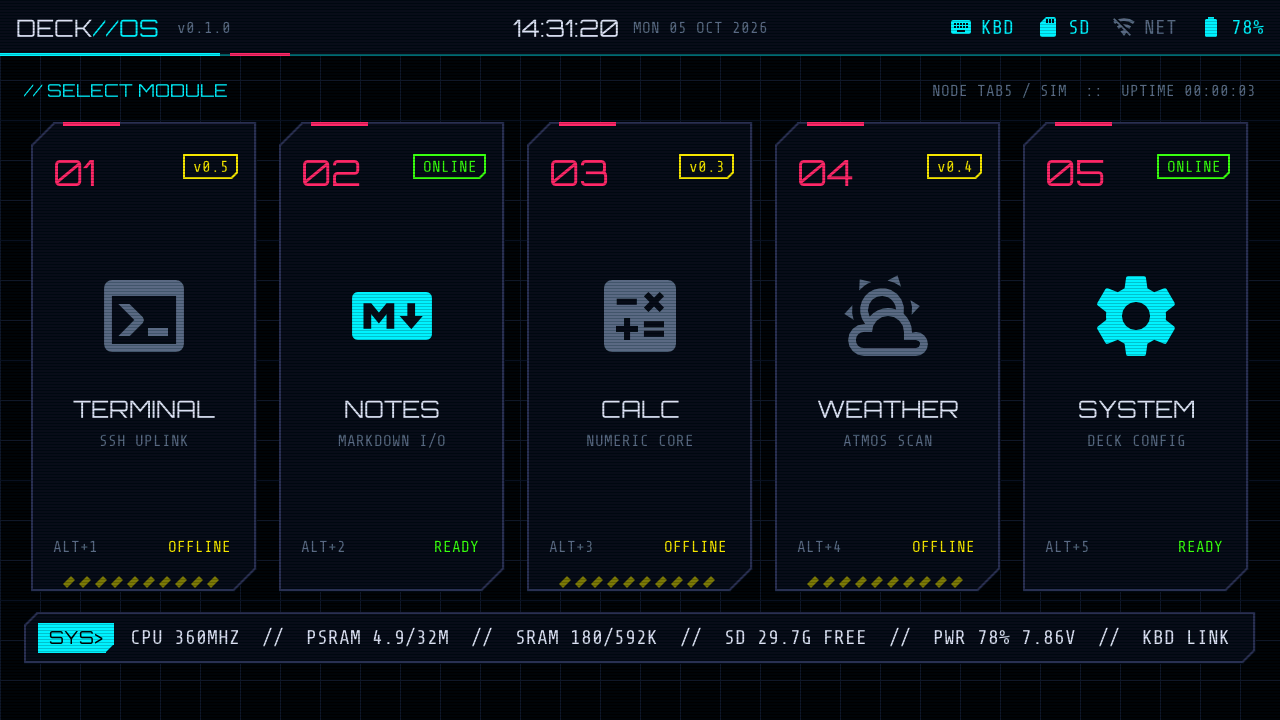
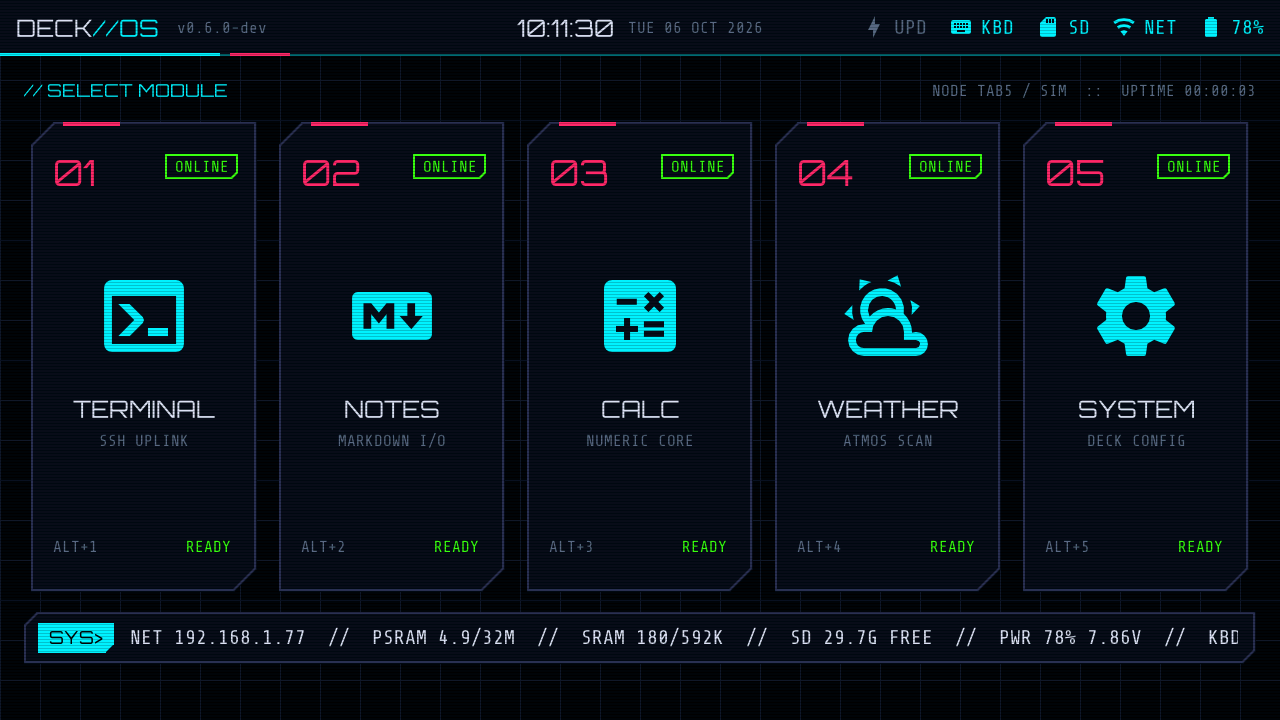
Web flasher on GitHub Pages
- web/index.html: installer page in the deck's style using ESP Web Tools
  10.4.0 (ESP32-P4), served from the site rather than a CDN
- .github/workflows/pages.yml: on every published release, bundles that
  release's full image, writes the ESP Web Tools manifest and deploys
- README: install-from-browser and release instructions; fresh home
  screenshot

diff --git a/web/index.html b/web/index.html
@@ -1,0 +1,122 @@
+<!doctype html>
+<html lang="en">
+<head>
+<meta charset="utf-8">
+<meta name="viewport" content="width=device-width, initial-scale=1">
+<title>DECK//OS Installer</title>
+<meta name="description" content="Install DECK//OS on an M5Stack Tab5 from your browser.">
+<link rel="preconnect" href="https://fonts.googleapis.com">
+<link rel="preconnect" href="https://fonts.gstatic.com" crossorigin>
+<link href="https://fonts.googleapis.com/css2?family=Orbitron:wght@500;700&family=Share+Tech+Mono&display=swap" rel="stylesheet">
+<!-- ESP Web Tools 10.4.0, copied from npm into the site by the deploy workflow (no CDN at runtime). -->
+<script type="module" src="ewt/install-button.js"></script>
+<style>
+:root {
+  --bg: #07070d; --panel: #0d0f1c; --panel-hi: #171a30; --line: #2a3050;
+  --text: #d8e1f0; --dim: #7a84a3; --accent: #00f0ff; --accent2: #ff2a6d;
+  --warn: #f3e600; --ok: #39ff14;
+  --mono: "Share Tech Mono", "SF Mono", Menlo, Consolas, monospace;
+  --disp: "Orbitron", var(--mono);
+}
+* { box-sizing: border-box; }
+html, body { margin: 0; }
+body {
+  background-color: var(--bg);
+  background-image: linear-gradient(#16182a 1px, transparent 1px), linear-gradient(90deg, #16182a 1px, transparent 1px);
+  background-size: 40px 40px;
+  color: var(--text);
+  font: 17px/1.6 var(--mono);
+}
+.wrap { max-width: 980px; margin: 0 auto; padding: 32px 16px 64px; }
+header { display: flex; align-items: baseline; gap: 16px; flex-wrap: wrap;
+         border-bottom: 2px solid color-mix(in srgb, var(--accent) 45%, transparent); padding-bottom: 14px; }
+.brand { font: 700 40px/1 var(--disp); letter-spacing: 2px; }
+.brand b { color: var(--accent); font-weight: 700; }
+.sub { color: var(--dim); }
+.grow { flex: 1; }
+.ver { color: var(--accent2); }
+.panel {
+  background: var(--panel); position: relative; padding: 24px; margin-top: 24px;
+  clip-path: polygon(16px 0, 100% 0, 100% calc(100% - 16px), calc(100% - 16px) 100%, 0 100%, 0 16px);
+  box-shadow: inset 0 0 0 1px var(--line);
+}
+.panel::before { content: ""; position: absolute; left: 26px; top: 0; width: 64px; height: 3px; background: var(--accent2); }
+h2 { font: 500 18px/1.2 var(--disp); color: var(--accent); letter-spacing: 1px; margin: 0 0 14px; }
+h2::before { content: "// "; }
+.hero { width: 100%; height: auto; display: block; margin-top: 24px; border: 1px solid var(--line); }
+.install { display: flex; align-items: center; gap: 24px; flex-wrap: wrap; }
+esp-web-install-button button[slot="activate"] {
+  font: 700 20px/1 var(--disp); letter-spacing: 2px; color: var(--bg); background: var(--accent);
+  border: 0; padding: 18px 34px; cursor: pointer;
+  clip-path: polygon(12px 0, 100% 0, 100% calc(100% - 12px), calc(100% - 12px) 100%, 0 100%, 0 12px);
+}
+esp-web-install-button button[slot="activate"]:hover { background: #6bf7ff; }
+.unsupported, .not-allowed { color: var(--warn); }
+ol { margin: 0; padding-left: 22px; }
+li { margin: 6px 0; }
+.note { color: var(--dim); font-size: 15px; }
+.warn { color: var(--warn); }
+a { color: var(--accent); }
+code { color: var(--ok); }
+.grid { display: grid; grid-template-columns: repeat(auto-fit, minmax(260px, 1fr)); gap: 0 24px; }
+footer { margin-top: 32px; color: var(--dim); font-size: 14px; }
+</style>
+</head>
+<body>
+<div class="wrap">
+  <header>
+    <div class="brand">DECK<b>//OS</b></div>
+    <div class="sub">CYBERDECK FIRMWARE FOR THE M5STACK TAB5</div>
+    <div class="grow"></div>
+    <div class="ver" id="ver"></div>
+  </header>
+
+  <img class="hero" src="screenshots/home.png" alt="DECK//OS home screen" width="1280" height="720">
+
+  <div class="panel">
+    <h2>INSTALL</h2>
+    <div class="install">
+      <esp-web-install-button manifest="manifest.json">
+        <button slot="activate">INSTALL</button>
+        <span slot="unsupported" class="unsupported">This browser can't talk to USB devices. Use Chrome or Edge on a desktop computer.</span>
+        <span slot="not-allowed" class="not-allowed">Open this page over HTTPS to install.</span>
+      </esp-web-install-button>
+      <div class="note">Chrome or Edge on a desktop computer. Takes about a minute.</div>
+    </div>
+  </div>
+
+  <div class="grid">
+    <div class="panel">
+      <h2>STEPS</h2>
+      <ol>
+        <li>Connect the Tab5 to this computer with a USB-C <b>data</b> cable.</li>
+        <li>Click <b>INSTALL</b> and pick the Tab5's port (it shows up as a USB JTAG/serial device).</li>
+        <li>Confirm, and wait for the progress to finish.</li>
+        <li>The Tab5 restarts into DECK//OS.</li>
+      </ol>
+      <p class="note">If no port appears, hold the Tab5's boot button while plugging it in, then try again.</p>
+    </div>
+    <div class="panel">
+      <h2>GOOD TO KNOW</h2>
+      <ul>
+        <li class="warn">Installing here resets settings (Wi-Fi, theme, timezone). Notes and files on the SD card are not touched.</li>
+        <li>After this, updates arrive over Wi-Fi: SYSTEM &gt; UPDATE.</li>
+        <li>Works on every Tab5 screen revision.</li>
+        <li>Pair it with the Tab5 Keyboard for the full deck.</li>
+      </ul>
+    </div>
+  </div>
+
+  <footer>
+    <a href="https://github.com/hey-its-brian/tab5-cyberdeck">Source on GitHub</a> ·
+    <a href="https://github.com/hey-its-brian/tab5-cyberdeck/releases">Releases and notes</a> ·
+    Installer powered by <a href="https://esphome.github.io/esp-web-tools/">ESP Web Tools</a>
+  </footer>
+</div>
+<script>
+fetch("manifest.json").then((r) => r.json()).then((m) => {
+  document.getElementById("ver").textContent = "v" + m.version;
+}).catch(() => {});
+</script>
+</body>
+</html>

diff --git a/ROADMAP.md b/ROADMAP.md
@@ -51,10 +51,11 @@ Each version ends with something flashable and usable.
 
 ## Web flasher (GitHub Pages)
 
-- A page on GitHub Pages using ESP Web Tools: plug the Tab5 in over USB, click INSTALL in Chrome or Edge (Web Serial), done. No ESP-IDF needed
-- Manifest generated by the release workflow, always pointing at the latest release's full image
-- Covers first installs and recovery; OTA handles everything after
-- Optional: GitHub Actions builds the firmware on each tag and attaches both the full and OTA images to the release
+- [x] Page on GitHub Pages using ESP Web Tools (served from the site, no CDN): plug in, INSTALL in Chrome or Edge
+- [x] Deploy workflow runs on every published release: bundles that release's full image and writes the manifest
+- [x] `tools/release.sh` cuts a release (version bump, build, both images, tag, GitHub release)
+- [ ] Checkpoint: install from the page onto the Tab5 in Chrome
+- [ ] Optional: GitHub Actions builds the firmware on each tag
 
 ## v0.6: SSH terminal (done)
 

diff --git a/README.md b/README.md
@@ -91,6 +91,18 @@ See [ROADMAP.md](ROADMAP.md) for v0.2 onward.
 
 Everything is also reachable by touch: tiles, the `< DECK` button and on-screen controls.
 
+## Install from the browser
+
+[**hey-its-brian.github.io/tab5-cyberdeck**](https://hey-its-brian.github.io/tab5-cyberdeck/): plug the
+Tab5 in over USB-C, click INSTALL in Chrome or Edge. After that, updates come
+over Wi-Fi (SYSTEM > UPDATE).
+
+## Releasing
+
+`tools/release.sh X.Y.Z notes.md "Title"` from a clean `main`: bumps the version,
+builds, attaches the full (USB/web) and OTA images to a GitHub release, and the
+release deploys the web flasher.
+
 ## Build and flash
 
 Needs ESP-IDF 5.4 or newer.
